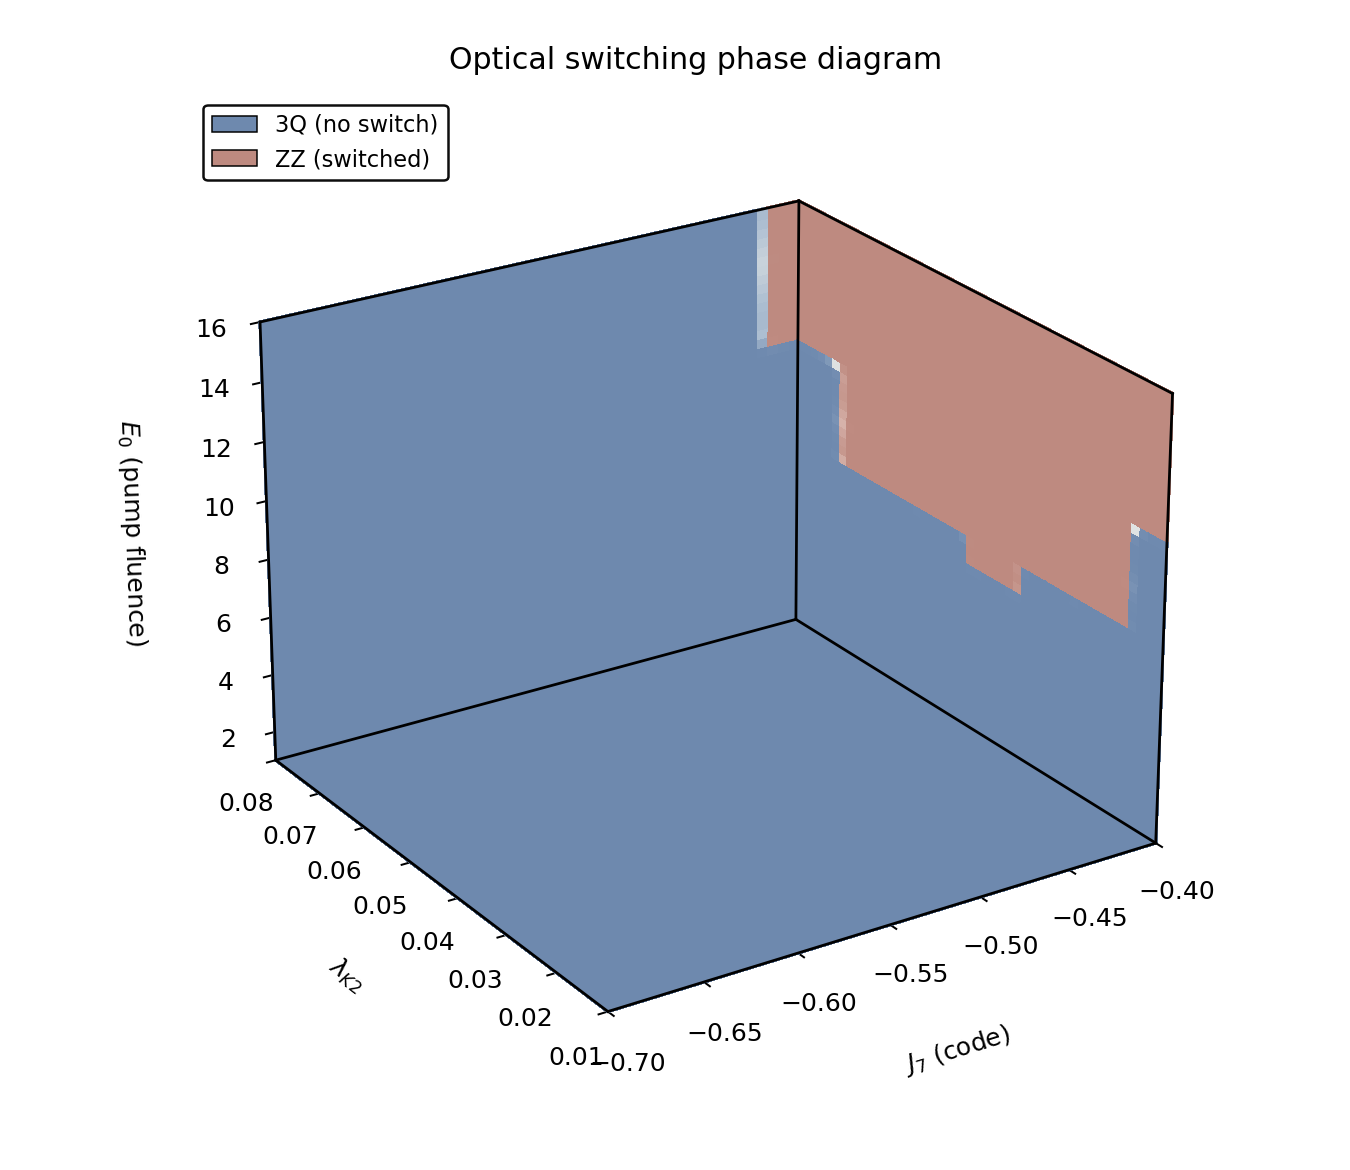
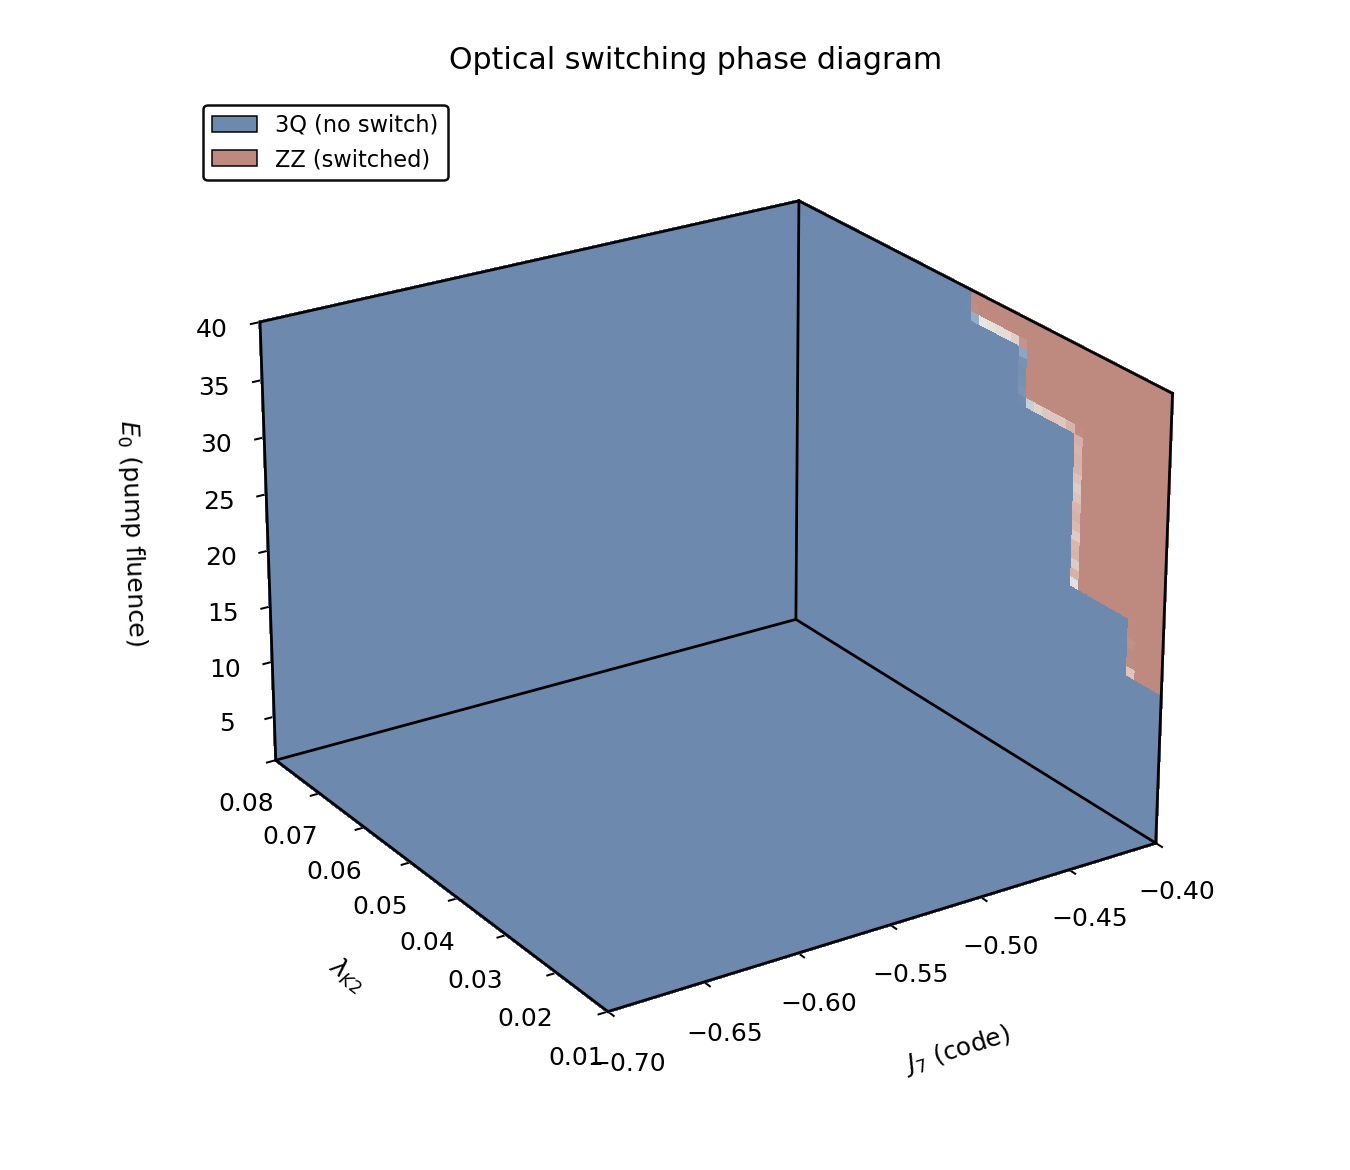
Deliverables 1-2: fix cube plotter path, regenerate clean-drive cube + static PD
- plot_phase_barrier_cube.py: ROOT from __file__ (was hardcoded /home/pc_linux).
- (1) cube_phase_diagram.png: clean all-channel drive switching over (J7, lambda_K2,
  E0->40); ZZ switching only near J7=-0.40 above E0~16 (lambda verified signed X/K).
- (2) static_phase_diagram: 3Q ground for J7<~-0.42, lambda-inert (no drive).

diff --git a/NCTO_project/scripts/plot_phase_barrier_cube.py b/NCTO_project/scripts/plot_phase_barrier_cube.py
@@ -20,7 +20,8 @@ from matplotlib.patches import Patch
 from matplotlib import cm, colors
 import argparse
 
-ROOT = "/home/pc_linux/ClassicalSpin_Cpp"
+from pathlib import Path
+ROOT = str(Path(__file__).resolve().parents[2])
 
 def set_dirs(all_channels: bool):
     global PD, ANA, KB